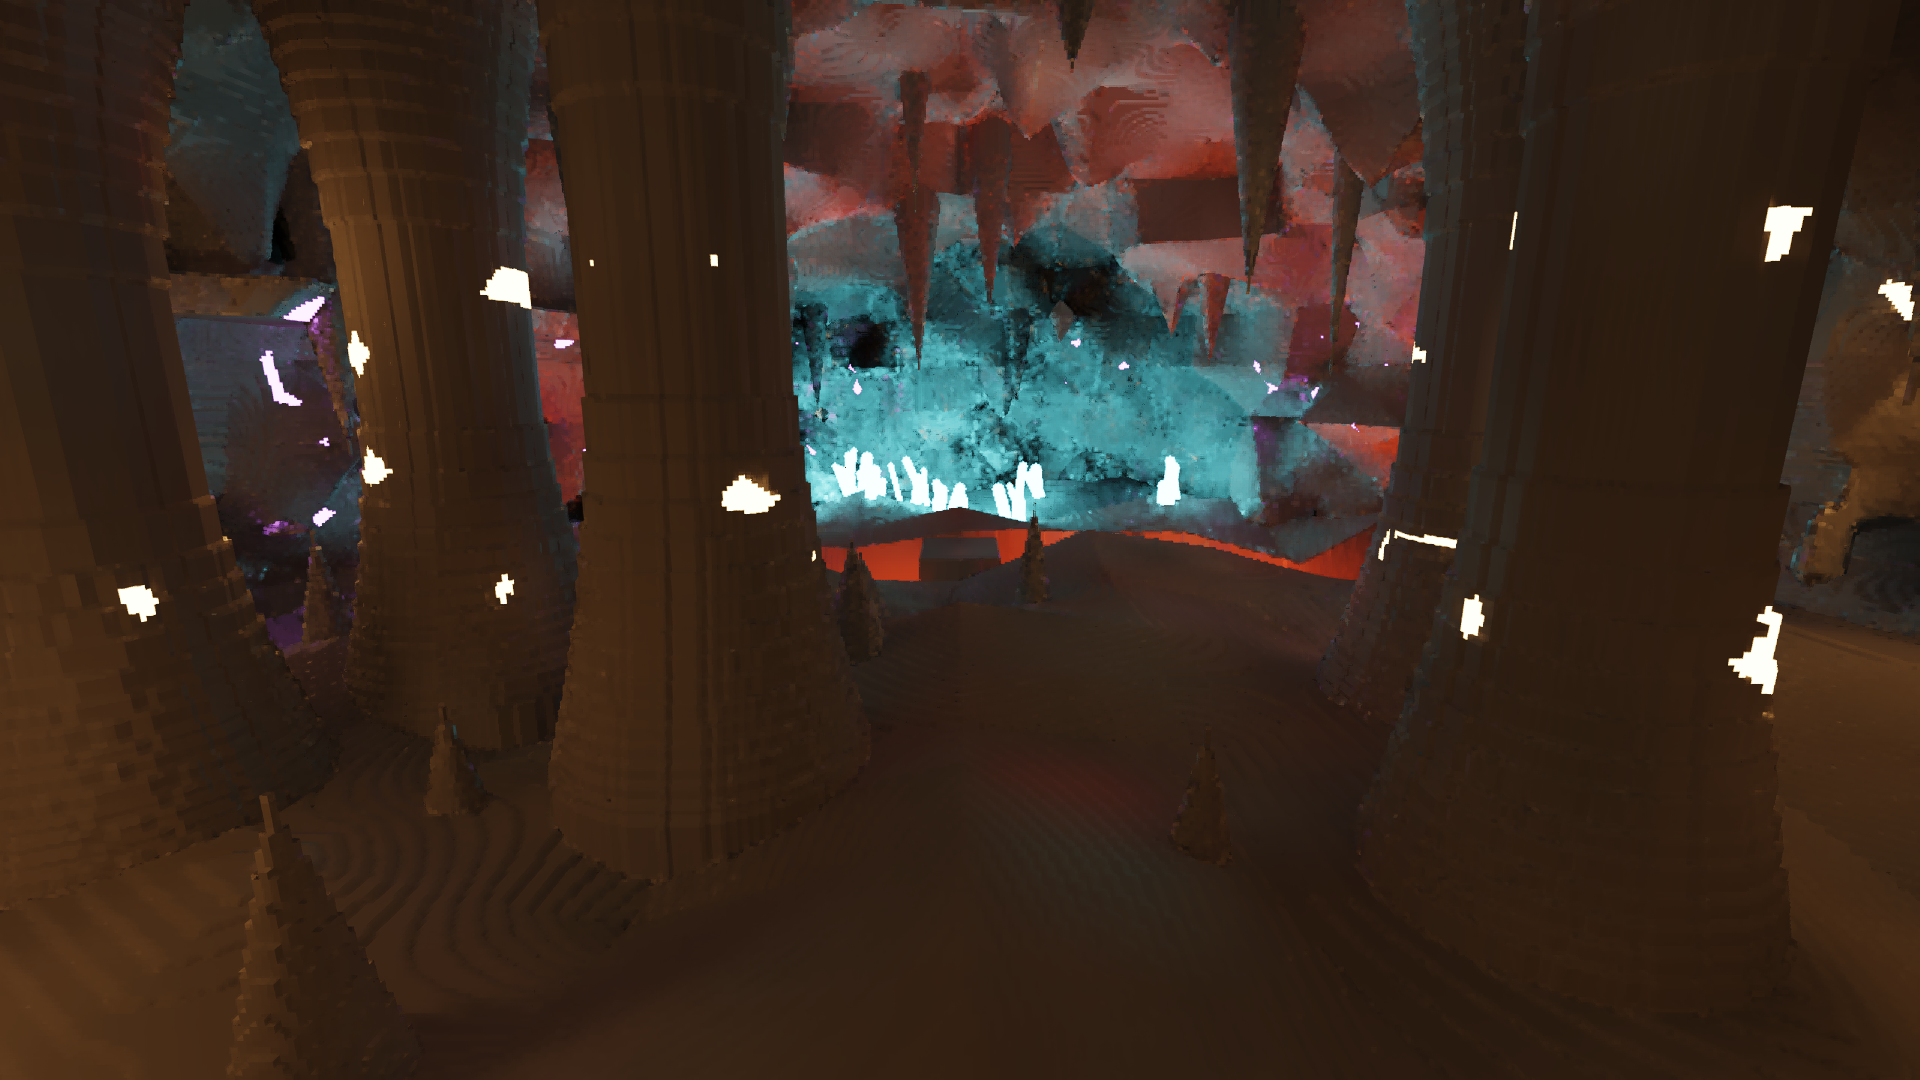
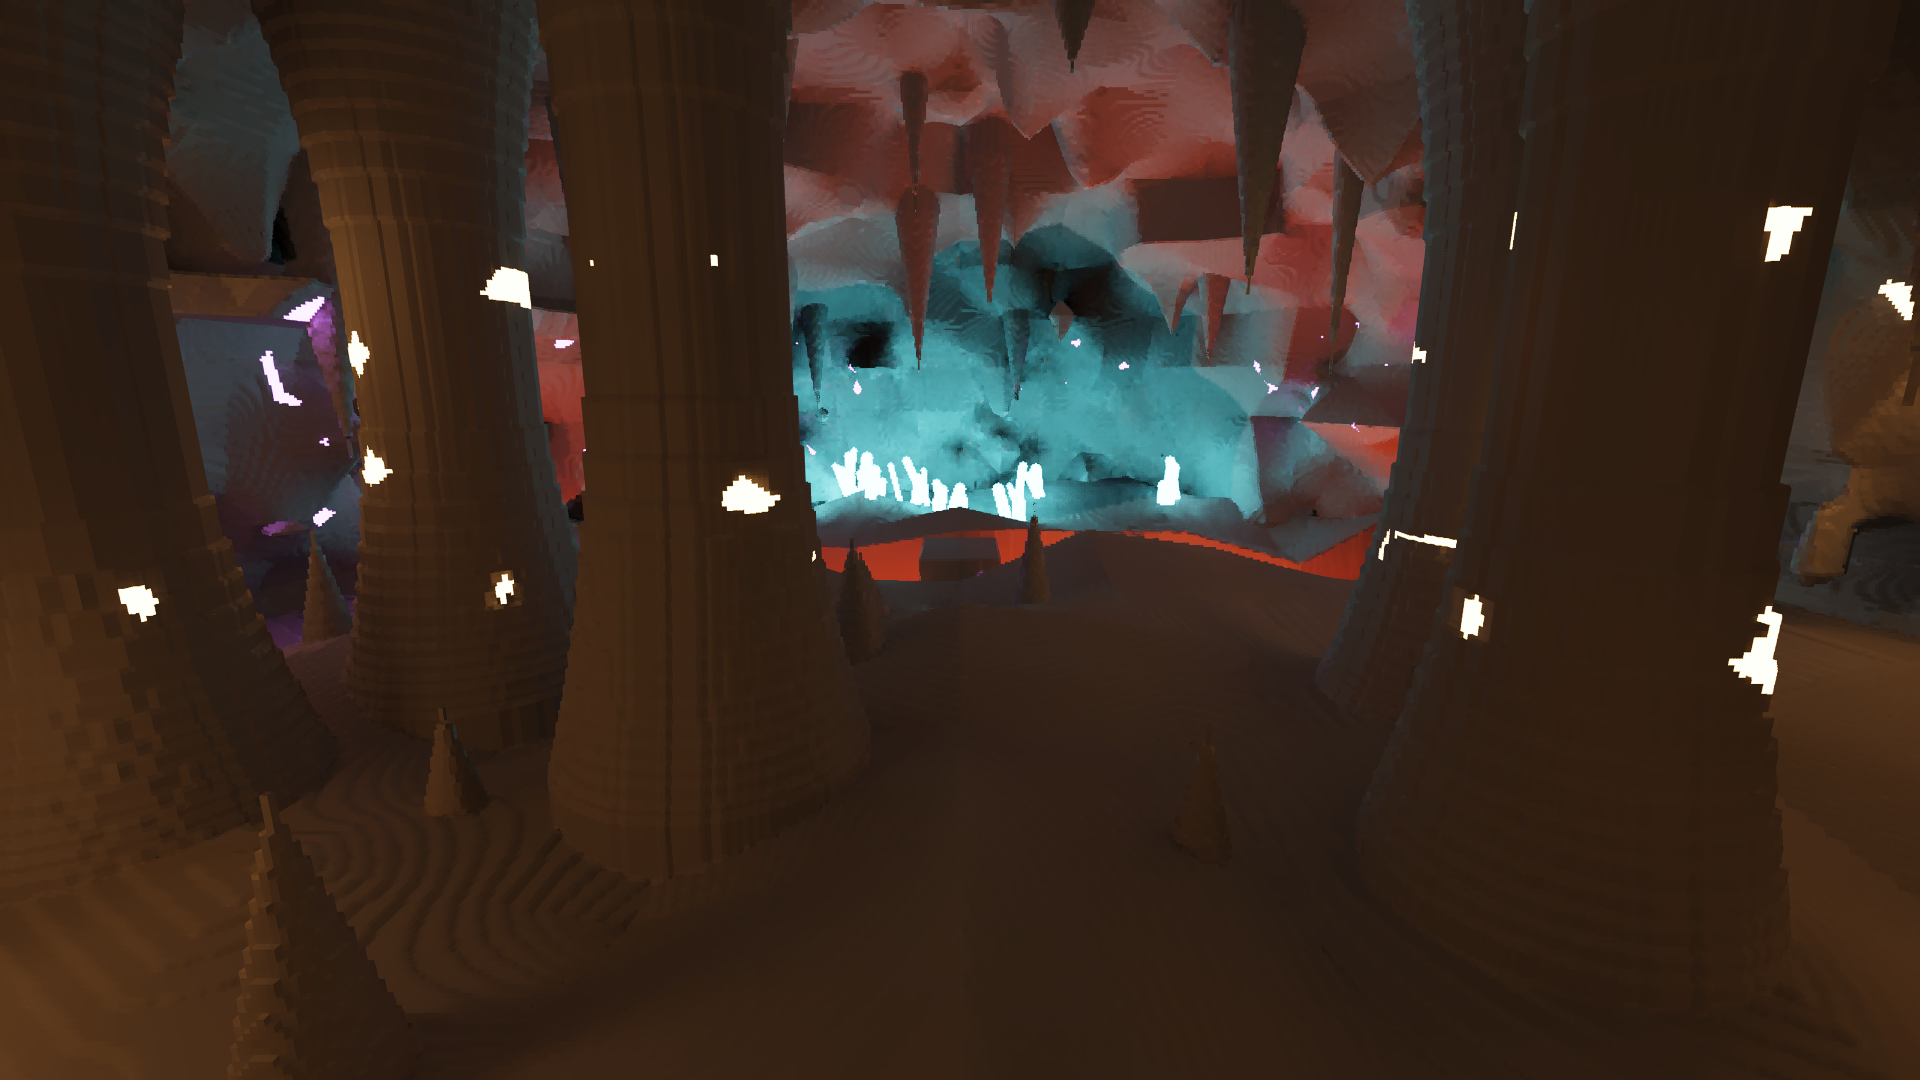
docs(readme): the hero shot settled, at 8192 frames
The 64-frame still showed light that had not settled. Same pose and
exposure, the caption and the regenerate command name the frame count.

diff --git a/README.md b/README.md
@@ -7,12 +7,12 @@
 
 <sub>The showcase cavern (`--source showcase`), seed 1, its `hall` shot: from voxel
 (190, 384, 218), 9 m over the west floor, at yaw 0 and pitch -12 degrees, lamp off, so all of
-the light is the four ores' (amber, cyan crystal, violet amethyst and red ember). 64 frames at
+the light is the four ores' (amber, cyan crystal, violet amethyst and red ember). 8192 frames at
 a manual exposure of 8, indirect light on at a probe spacing of 32 voxels, FSR 2 on at
 internal scale 1.5 (1280x720 for 1920x1080) with sharpening 0.5, the default `face` look
 (honest cubes with the far normal at `[2, 6]`) and the default lighting, on an RTX 3080 Laptop GPU at 1920x1080.
 Regenerate with
-`cargo run --release -p flythrough --example hero -- --exposure 8 --out docs/images/hero.png`
+`cargo run --release -p flythrough --example hero -- --exposure 8 --frames 8192 --out docs/images/hero.png`
 (every other setting above is the example's default).</sub>
 
 A game-agnostic voxel engine in Rust. A streaming world of small voxels (10 cm at the first

diff --git a/LIGHT-FEEDBACK.md b/LIGHT-FEEDBACK.md
@@ -37,7 +37,7 @@ every light settled, which is exactly the problem I'm talking about". Then, on t
 The same still rendered from a fresh start at growing frame counts, nothing moving: the showcase's
 `hall` shot, 1920 x 1080, FSR 2 at 1.5, the default look, lamp off, manual exposure 8, RTX 3080
 Laptop, at 4bf567f (`hero --exposure 8 --adapter NVIDIA --frames N`). The 64-frame render is
-byte-identical to `docs/images/hero.png`: the README shows an unsettled frame, because the tool's
+byte-identical to the `docs/images/hero.png` of b829b21: the README showed an unsettled frame, because the tool's
 default is 64 frames. Differences are per pixel in 8-bit levels, the worst of the three channels.
 
 | Compared | Mean | p99 | Pixels off by more than 2 | more than 8 | more than 32 |
